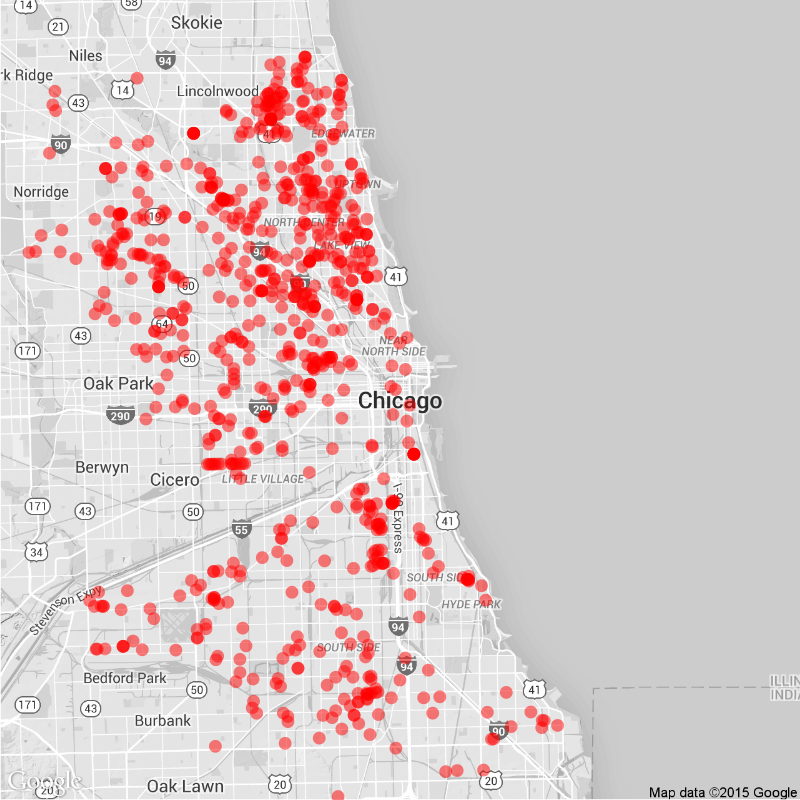
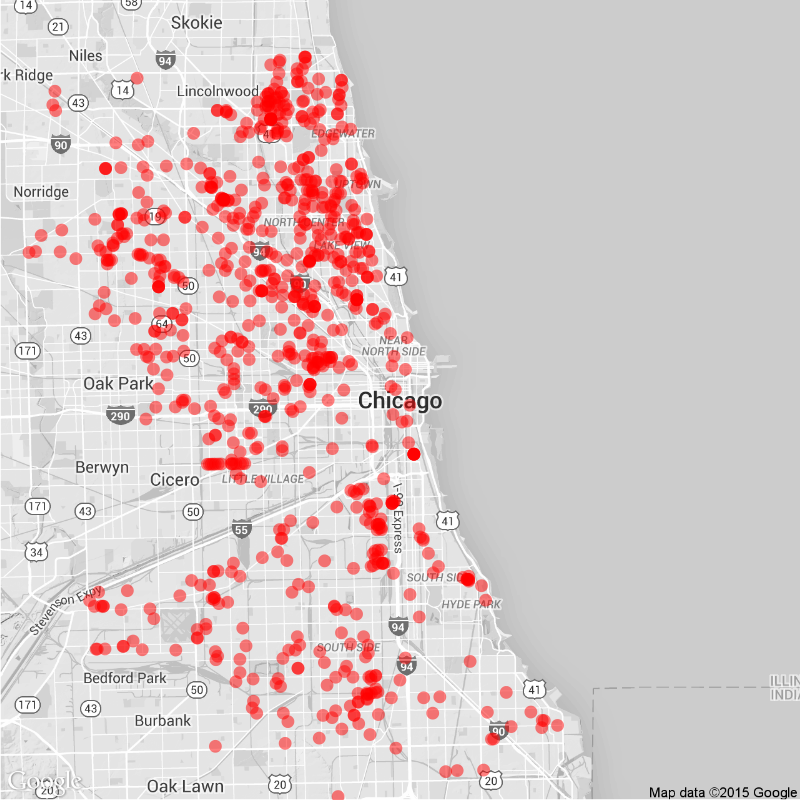
Daily Maps

diff --git a/daily.md b/daily.md
@@ -15,22 +15,22 @@ tags: Chicago NYC weekly daily rats
 
 ### Daily
 
-Yesterday (June 05), there were 100 calls to Chicago's 311 line about rats.
+Yesterday (June 06), there were 48 calls to Chicago's 311 line about rats.
 ![Chicago rat calls to 311 weekly map]({{ site.cityimages }}/daily/Chicago_Rat_Map_Daily.png)
 
 ### Weekly
-Between May 30 and June 05, there were 834 calls to Chicago's 311 line about rats. The average number of weekly calls for this time of year is 771.
+Between May 31 and June 06, there were 844 calls to Chicago's 311 line about rats. The average number of weekly calls for this time of year is 771.
 ![Chicago rat calls to 311 weekly map]({{ site.cityimages }}/daily/Chicago_Rat_Map_Weekly.png)
 ***
 # New York City <a id="nyc"><a>
 
 ### Daily
 
-Yesterday (June 05), there were 0 calls to New York City's 311 line about rats.
+Yesterday (June 06), there were 0 calls to New York City's 311 line about rats.
 ![NYC rat calls to 311 weekly map]({{ site.cityimages }}/daily/NYC_Rat_Map_Daily.png)
 
 ### Weekly
-Between May 30 and June 05, there were 0 calls to New York City's 311 line about rats. The average number of weekly calls for this time of year is 277.
+Between May 31 and June 06, there were 0 calls to New York City's 311 line about rats. The average number of weekly calls for this time of year is 277.
 ![NYC rat calls to 311 weekly map]({{ site.cityimages }}/daily/NYC_Rat_Map_Weekly.png)
 
 Each red dot represents one call about a rat seen in that location. The dots are transparent, so multiple calls from one location will be seen as a solid dot. The usual caveats apply: more calls do not necessarily mean that there are more rats in that location than other parts of the city. A cluster of dots could indicate that one resident is unusually vocal about rodents in his or her neighborhood. Also, more densely populated neighborhoods tend to make more calls to 311.
